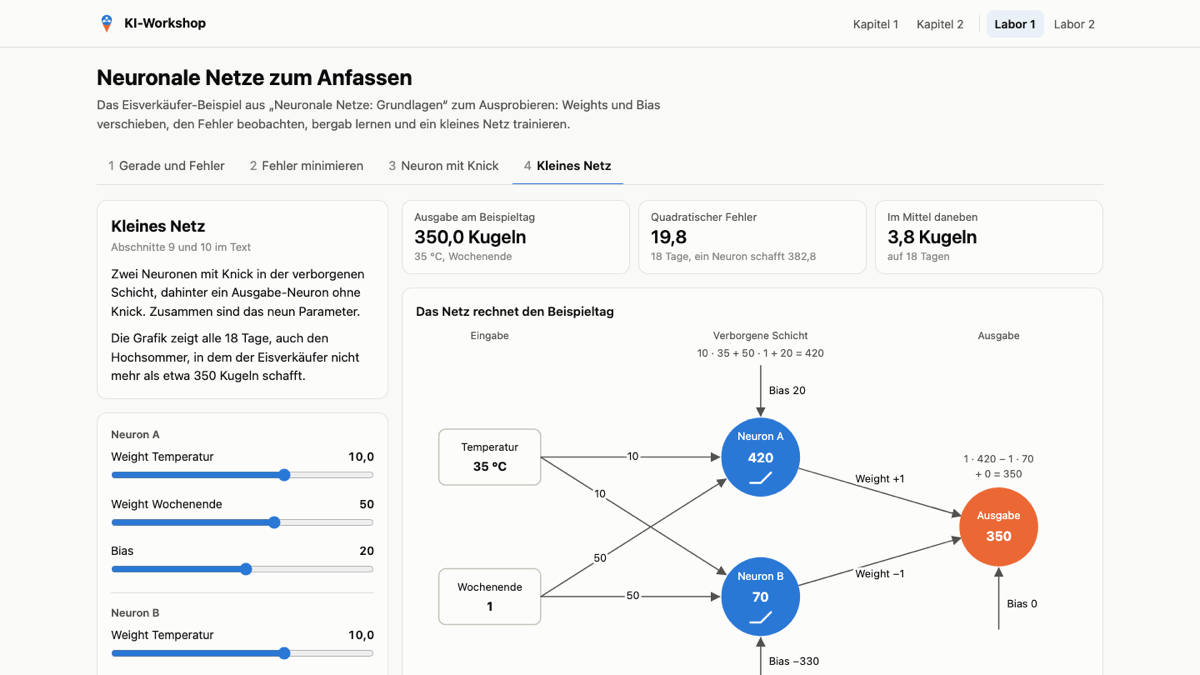
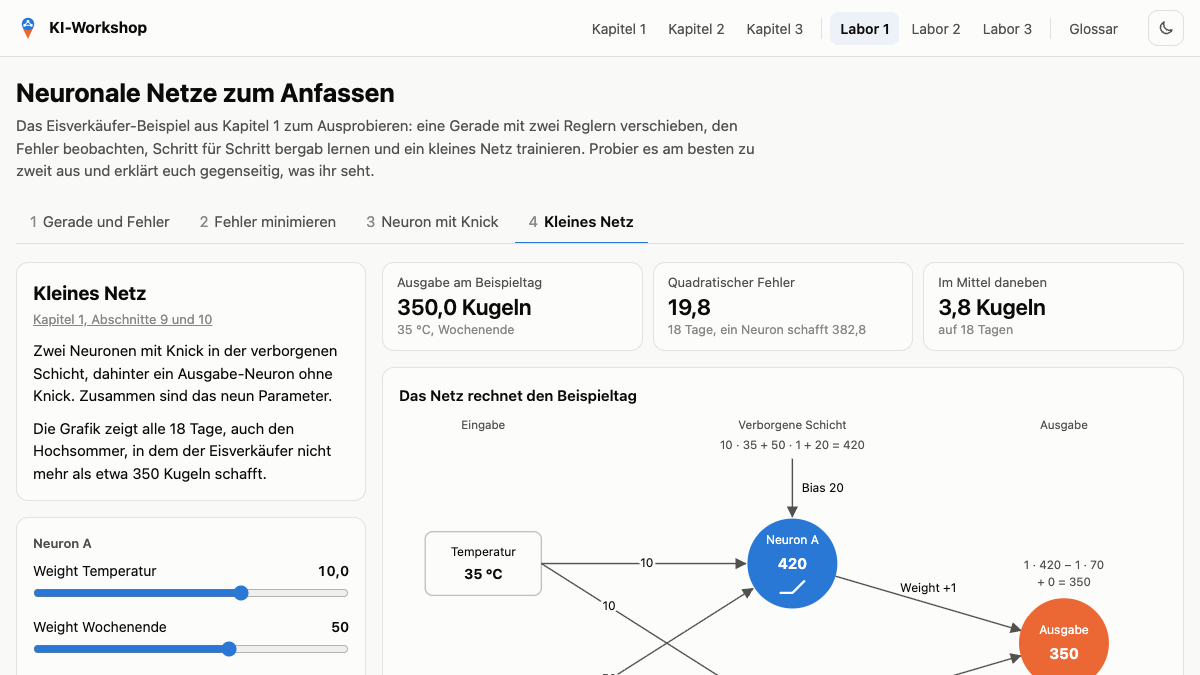
README und Screenshots auf den Stand der überarbeiteten Kapitel bringen
Neue Kapiteltitel, Teaser, Themen und Lesezeiten, Glossar und Leitfaden
für Moderierende mit eigenem Abschnitt, Grundsätze für Mitwirkende
ergänzt. Der eigene Ablaufvorschlag entfällt zugunsten des Leitfadens.
Startseite und Labore neu fotografiert, damit Navigation und Texte zur
aktuellen Website passen.

diff --git a/README.md b/README.md
@@ -4,13 +4,15 @@
 
 # KI-Workshop: Vom Eisverkäufer zum Sprachmodell
 
-**Wie neuronale Netze, große Sprachmodelle und die Suche nach Bedeutung funktionieren:<br>an einem durchgehenden Beispiel erklärt, mit Zahlen zum Nachrechnen und Laboren zum Ausprobieren.**
+**Wie lernt eine Maschine? Was steckt hinter ChatGPT und Co.? Und wie schlägt eine KI in eigenen Unterlagen nach?<br>Dieser Workshop erklärt es an einem durchgehenden Beispiel, ohne Vorkenntnisse und ohne Programmieren.**
 
 [**Zur Website**](https://kariha70.github.io/ki-workshop/) ·
 [Kapitel 1](https://kariha70.github.io/ki-workshop/kapitel-1.html) ·
 [Kapitel 2](https://kariha70.github.io/ki-workshop/kapitel-2.html) ·
 [Kapitel 3](https://kariha70.github.io/ki-workshop/kapitel-3.html) ·
-[Labore](https://kariha70.github.io/ki-workshop/#labore)
+[Labore](https://kariha70.github.io/ki-workshop/#labore) ·
+[Glossar](https://kariha70.github.io/ki-workshop/glossar.html) ·
+[Leitfaden](https://kariha70.github.io/ki-workshop/leitfaden.html)
 
 [![GitHub Pages](https://github.com/kariha70/ki-workshop/actions/workflows/pages.yml/badge.svg)](https://github.com/kariha70/ki-workshop/actions/workflows/pages.yml)
 
@@ -20,77 +22,97 @@
 
 ## Worum es geht
 
-Ein Eisverkäufer möchte wissen, wie viel Eis er morgen braucht. Aus dieser einfachen Frage entsteht Schritt für Schritt alles, was man zum Verständnis heutiger KI braucht: eine Gerade durch die Verkaufszahlen, ein Neuron, ein kleines Netz, ein Tokenizer, ein Sprachmodell und schließlich eine Suche, die nach Bedeutung statt nach Wörtern sucht.
+Ein Eisverkäufer möchte wissen, wie viel Eis er morgen braucht. Aus dieser einfachen Frage entsteht Schritt für Schritt alles, was man zum Verständnis heutiger KI braucht: eine Gerade durch die Verkaufszahlen, ein Neuron, ein kleines Netz, ein Sprachmodell und schließlich eine Suche, die nach Bedeutung statt nach Wörtern sucht.
 
-Der Workshop richtet sich an alle, die verstehen wollen, was in einem Sprachmodell wie ChatGPT, Claude oder Llama passiert. Vorwissen ist nicht nötig, Schulmathematik reicht.
+Der Workshop richtet sich an alle, die verstehen wollen, was in einem Chat-Assistenten wie ChatGPT, Claude oder Gemini passiert, und die ihn danach besser einsetzen möchten. Vorwissen ist nicht nötig, Grundrechenarten genügen.
 
 | | |
 | --- | --- |
-| 🍦 **Ein Beispiel, das trägt** | Statt vieler kleiner Beispiele gibt es eine Geschichte. Gerade, Neuron, Netz, Tokenizer und semantische Suche bauen alle auf den Daten des Eisverkäufers auf. |
+| 🍦 **Ein Beispiel, das trägt** | Statt vieler kleiner Beispiele gibt es eine Geschichte. Gerade, Neuron, Netz, Sprachmodell und Suche bauen alle auf dem Eisverkäufer auf. |
+| 💭 **Mitdenken statt nur zuhören** | Lernziele am Anfang, Fragen zum Kurz-Überlegen, ein Merksatz nach jedem Abschnitt und ein kleiner Selbsttest am Ende jedes Kapitels. |
+| 🎛 **Ausprobieren im Labor** | Regler verschieben, Texte zerlegen, nach Bedeutung suchen. Die Labore laufen direkt im Browser, ohne Installation. |
+| 🔍 **Mathematik nur für Neugierige** | Formeln und Rechenwege stehen in aufklappbaren Kästen. Wer sie überspringt, verliert nicht den Faden. |
 | 🧮 **Jede Zahl nachrechenbar** | Zu jedem Kapitel gibt es ein Python-Skript, das alle Zahlen und Grafiken erzeugt. Nichts ist geschätzt oder von Hand eingetragen. |
-| 🎛 **Labore zum Anfassen** | Regler verschieben, bergab lernen, Tokens zerlegen, Pfeile drehen, im Handbuch der Eisdiele suchen. Alles läuft direkt im Browser. |
 
 ## Die Kapitel
+
+Jedes Kapitel beantwortet eine Leitfrage. Die Kapitel bauen aufeinander auf.
 
 <table>
 <tr>
 <td width="33%" valign="top">
 <a href="https://kariha70.github.io/ki-workshop/kapitel-1.html"><img src="docs/bilder/11-zwei-knicke.png" alt="Zwei Neuronen mit Knick bilden zusammen eine Kurve"></a>
-<h3>1 · Neuronale Netze: Grundlagen</h3>
-Von der Geraden durch die Verkaufszahlen über Fehler, Gradientenabstieg und den Knick bis zum kleinen Netz, das selbst lernt.<br><br>
-<sub>Lineare Regression · Weight und Bias · Quadratischer Fehler · Gradientenabstieg · Überanpassung · Aktivierungsfunktion · Backpropagation</sub><br><br>
-⏱ etwa 25 Minuten Lesezeit
+<h3>1 · Neuronale Netze</h3>
+<b>Wie eine Maschine aus Beispielen lernt</b><br><br>
+Wie lernt eine Maschine aus Beispielen? Ein Eisverkäufer, eine Gerade und ein kleines Netz zeigen das Grundprinzip hinter jeder heutigen KI.<br><br>
+<sub>Aus Beispielen lernen · Fehler messen · Schritt für Schritt bergab · Auswendiglernen erkennen · Neuron · Neuronales Netz</sub><br><br>
+⏱ etwa 20 Minuten Lesezeit
 </td>
 <td width="33%" valign="top">
 <a href="https://kariha70.github.io/ki-workshop/kapitel-2.html"><img src="docs/bilder/kapitel-2/08-transformer.png" alt="Der Weg vom Text zum nächsten Token durch einen Transformer"></a>
-<h3>2 · Tokenizer und große Sprachmodelle</h3>
-Wie Text zu Zahlen wird, was Embeddings und Attention leisten, warum größere Modelle besser werden und wo ihre Grenzen liegen.<br><br>
-<sub>Nächstes Token · Kreuzentropie · Tokenizer · tiktoken · Embeddings · Attention · Transformer · Skalierung · Temperatur</sub><br><br>
-⏱ etwa 15 Minuten Lesezeit
+<h3>2 · Große Sprachmodelle</h3>
+<b>Wie ein Computer Texte schreibt</b><br><br>
+Was in ChatGPT und Co. steckt, warum es so flüssig formuliert und warum man trotzdem nachprüfen sollte.<br><br>
+<sub>Das nächste Wort · Tokens · Bedeutung als Zahlen · Attention · Transformer · Temperatur · Halluzinationen</sub><br><br>
+⏱ etwa 20 Minuten Lesezeit
 </td>
 <td width="33%" valign="top">
 <a href="https://kariha70.github.io/ki-workshop/kapitel-3.html"><img src="docs/bilder/kapitel-3/04-suche.png" alt="Semantische Suche und Stichwortsuche im Vergleich"></a>
-<h3>3 · Semantische Suche und RAG</h3>
-Wie Embeddings ganze Texte vergleichbar machen, wie man damit nach Bedeutung sucht und wie RAG einem Sprachmodell neues Wissen mitgibt.<br><br>
-<sub>Text-Embeddings · Kosinus · Embedding-Modell · Semantische Suche · Vektordatenbank · RAG · Hybride Suche</sub><br><br>
+<h3>3 · Suchen nach Bedeutung</h3>
+<b>Wie eine KI in Dokumenten nachschlägt</b><br><br>
+Wie beantwortet eine KI Fragen zu eigenen Unterlagen? Suchen nach Bedeutung statt nach Wörtern, und Nachschlagen statt Raten.<br><br>
+<sub>Suchen nach Bedeutung · Ähnlichkeit messen · Embedding-Modell · RAG · Grenzen · Praxistipps</sub><br><br>
 ⏱ etwa 15 Minuten Lesezeit
 </td>
 </tr>
 </table>
 
-Die Kapitel bauen aufeinander auf. Die Texte liegen als Markdown in [`docs/`](docs) und werden für die Website in HTML umgewandelt.
+Die Lesezeit gilt für den Hauptweg ohne die aufklappbaren Kästen. Kapitel 2 und 3 enden mit Faustregeln für den Alltag mit Chat-Assistenten, alle drei mit einem kleinen Selbsttest.
 
 ## Die Labore
 
-Zu jedem Kapitel gibt es eine interaktive Seite mit Aufgaben zum gemeinsamen Ausprobieren.
+Zu jedem Kapitel gibt es eine interaktive Seite mit Aufgaben zum gemeinsamen Ausprobieren, am besten zu zweit an einem Gerät.
 
 <table>
 <tr>
 <td width="33%" valign="top">
 <a href="https://kariha70.github.io/ki-workshop/app/labor-1.html"><img src="docs/bilder/labor-1.png" alt="Labor 1"></a>
-<b>Labor 1: Neuronale Netze</b><br>
-Gerade verschieben, Schritt für Schritt bergab lernen, den Knick einschalten und ein kleines Netz trainieren.
+<b>Labor 1: Wie eine Maschine lernt</b><br>
+Eine Gerade mit Reglern verschieben, Schritt für Schritt bergab gehen, den Knick einschalten und ein kleines Netz lernen lassen.
 </td>
 <td width="33%" valign="top">
 <a href="https://kariha70.github.io/ki-workshop/app/labor-2.html"><img src="docs/bilder/labor-2.png" alt="Labor 2"></a>
 <b>Labor 2: Tokens und Temperatur</b><br>
-Eigenen Text mit den echten Tokenizern von GPT-4o und GPT-4 zerlegen und die Temperatur beim Ziehen verstellen.
+Eigenen Text in Tokens zerlegen, Deutsch und Englisch vergleichen und mit der Temperatur das nächste Wort auslosen.
 </td>
 <td width="33%" valign="top">
 <a href="https://kariha70.github.io/ki-workshop/app/labor-3.html"><img src="docs/bilder/labor-3.png" alt="Labor 3"></a>
 <b>Labor 3: Suchen nach Bedeutung</b><br>
-Den Kosinus von Hand nachrechnen, Sätze vergleichen, im Handbuch der Eisdiele suchen und einen Prompt für RAG bauen.
+Ähnlichkeit von Hand ausprobieren, eigene Sätze vergleichen, im Handbuch der Eisdiele suchen und einen Prompt für einen Chat-Assistenten bauen.
 </td>
 </tr>
 </table>
 
 Labor 1 und 2 funktionieren auch ohne Internet. Labor 3 rechnet die Beispiele aus dem Text sofort. Für eigene Eingaben lädt es einmalig ein Embedding-Modell (etwa 118 MB) von Hugging Face und rechnet dann im Browser.
 
+## Zum Nachschlagen und Vorbereiten
+
+**📖 [Glossar](https://kariha70.github.io/ki-workshop/glossar.html):** Alle 51 Fachbegriffe aus dem Workshop in Alltagssprache, von *Aktivierungsfunktion* bis *Weight*, jeweils mit Verweis auf den Abschnitt, in dem sie ausführlich erklärt werden.
+
+**🧭 [Leitfaden für Moderierende](https://kariha70.github.io/ki-workshop/leitfaden.html):** Alles, um den Workshop vor Ort mit einer Gruppe ohne technisches Vorwissen zu halten:
+
+- das didaktische Konzept hinter den Kapiteln
+- einen Zeitplan für zwei Sitzungen von je etwa dreieinhalb Stunden, gedacht für 10 bis 15 Teilnehmende
+- für jedes Modul Einstieg, Fragen an die Gruppe, typische Rückfragen und Aufträge für die Labore
+- eine Checkliste für Vorbereitung und Technik, auch für einen Raum ohne Internet
+
+**🖨 Handouts:** Jedes Kapitel lässt sich über die Druckfunktion des Browsers ausdrucken oder als PDF speichern. Navigation und Schaltflächen werden dabei ausgeblendet, die aufklappbaren Kästen automatisch geöffnet.
+
 ## Schnellstart
 
 **Online lesen:** Alles liegt unter **[kariha70.github.io/ki-workshop](https://kariha70.github.io/ki-workshop/)**.
 
-**Lokal starten:** Die Website braucht keinen Build-Schritt und keinen eigenen Server, ein einfacher statischer Server genügt:
+**Lokal starten:** Die Website braucht keinen Build-Schritt, ein einfacher statischer Server genügt:
 
 ```bash
 git clone https://github.com/kariha70/ki-workshop.git
@@ -110,27 +132,6 @@ python3 -m http.server --directory docs
 > [!NOTE]
 > Beim ersten Start laden manche Skripte Daten aus dem Internet: das zweite die Vokabulare von tiktoken, das dritte das Embedding-Modell in voller Genauigkeit (etwa 470 MB). Danach liegen sie im Cache.
 
-## Den Workshop halten
-
-Die Kapitel eignen sich zum Vortragen mit Beamer, die Labore zum Mitmachen am eigenen Laptop oder Handy. Ein möglicher Ablauf für einen Nachmittag:
-
-| Block | Dauer | Inhalt |
-| --- | --- | --- |
-| Kapitel 1 | 60 min | Vom Eisverkäufer zum Netz, mit Labor 1 an den vier Stationen |
-| Pause | 15 min | |
-| Kapitel 2 | 45 min | Tokens, Transformer, Temperatur, mit Labor 2: den eigenen Namen zerlegen |
-| Kapitel 3 | 45 min | Semantische Suche und RAG, mit Labor 3: Fragen ans Handbuch stellen |
-| Abschluss | 15 min | Grenzen, Fragen, Ausblick |
-
-**Vorbereitung:**
-
-- [ ] Alle drei Skripte einmal starten, damit Vokabulare und Modell im Cache liegen.
-- [ ] Labor 3 auf dem Vortragsrechner öffnen und „Modell laden“ drücken. Danach liegt das Modell im Browser-Cache und lädt beim nächsten Mal automatisch.
-- [ ] Bei schwachem WLAN den Teilnehmenden raten, in Labor 3 bei den vorberechneten Beispielen zu bleiben.
-- [ ] Hell oder dunkel: Oben rechts lässt sich das Design umschalten, auf dem Beamer ist hell meist besser lesbar.
-
-Jedes Labor hat eine Karte „Ausprobieren“ mit Aufgaben, die sich gut für Kleingruppen eignen.
-
 ## Aufbau des Repos
 
 ```text
@@ -139,31 +140,34 @@ ki-workshop/
 │   ├── 01-Neuronale-Netze-Grundlagen.md
 │   ├── 02-Tokenizer-und-Sprachmodelle.md
 │   ├── 03-Semantische-Suche-und-RAG.md
-│   ├── index.html, kapitel-*.html   erzeugt aus den Markdown-Dateien
+│   ├── glossar.md                 Fachbegriffe in Alltagssprache
+│   ├── leitfaden.md               Leitfaden für Moderierende
+│   ├── *.html                     erzeugt aus den Markdown-Dateien
 │   ├── app/                       die Labore und ihre vorberechneten Daten
 │   │   └── vendor/                js-tiktoken für Labor 2 und 3
 │   ├── assets/                    Stylesheets, Skripte und Logo der Website
 │   ├── beispiele/                 die Python-Skripte zu den Kapiteln
 │   └── bilder/                    alle Grafiken, erzeugt von den Skripten
 ├── werkzeuge/
-│   ├── seite_bauen.py             baut Startseite und Kapitelseiten
+│   ├── seite_bauen.py             baut Startseite, Kapitel, Glossar und Leitfaden
 │   └── tiktoken/                  baut docs/app/vendor/tiktoken.js
 └── .github/workflows/pages.yml    veröffentlicht docs/ bei jedem Push auf main
 ```
 
 ## Inhalte ändern
 
-1. **Text bearbeiten:** Die Kapitel in `docs/*.md` ändern.
+1. **Text bearbeiten:** Kapitel, Glossar oder Leitfaden in `docs/*.md` ändern.
 2. **Zahlen und Grafiken neu erzeugen:** Das passende Skript in `docs/beispiele/` ohne Argumente starten. Es schreibt die Grafiken nach `docs/bilder/` und die Labordaten nach `docs/app/`.
-3. **Seiten bauen:** `uv run werkzeuge/seite_bauen.py` erzeugt `docs/index.html` und `docs/kapitel-*.html` neu. Die erzeugten Seiten werden mit eingecheckt.
+3. **Seiten bauen:** `uv run werkzeuge/seite_bauen.py` erzeugt alle HTML-Seiten in `docs/` neu. Die erzeugten Seiten werden mit eingecheckt.
 4. **Veröffentlichen:** Ein Push auf `main` startet den Workflow, der `docs/` auf GitHub Pages stellt.
 
 Ein paar Grundsätze, die sich durch alle Kapitel ziehen:
 
-- Alle Daten im Beispiel sind erfunden, alle Zahlen im Text kommen aus den Skripten.
-- Ausgedachte Werte, etwa in schematischen Grafiken, sind im Text als ausgedacht gekennzeichnet.
-- Jedes Kapitel endet mit „Das Wichtigste in Kürze“, „Selbst ausprobieren“ und Quellen.
-- Fachbegriffe werden beim ersten Auftreten erklärt und danach einheitlich verwendet, etwa *Weight* und *Bias*.
+- **Erst erleben, dann benennen:** Jeder größere Gedanke beginnt mit einer Frage an die Leserin oder den Leser („Kurz überlegen“). Der Fachbegriff kommt danach.
+- **Der Hauptweg kommt ohne Formeln aus.** Rechnungen, Programmcode und Hintergründe stehen in Kästen `<details class="vertiefung">` mit dem Titel „Für Neugierige“.
+- **Jeder Abschnitt endet mit einem Merksatz**, jedes Kapitel mit „Das Wichtigste in Kürze“, einem Selbsttest „Teste dich“ und Quellen.
+- **Alle Daten im Beispiel sind erfunden**, alle Zahlen im Text kommen aus den Skripten. Ausgedachte Werte, etwa in schematischen Grafiken, sind als ausgedacht gekennzeichnet.
+- **Neue Fachbegriffe** gehören auch ins Glossar.
 
 Das Bündel für js-tiktoken wird nur neu gebaut, wenn sich die Version ändern soll:
 
@@ -189,7 +193,7 @@ Die Unterlagen dürfen gern für eigene Workshops, im Unterricht oder in der Com
 
 | Was | Lizenz |
 | --- | --- |
-| **Inhalte:** die Kapiteltexte in `docs/*.md`, die daraus erzeugten Seiten und alle Grafiken in `docs/bilder/` | [CC BY 4.0](https://creativecommons.org/licenses/by/4.0/deed.de), siehe [`LICENSE-INHALTE`](LICENSE-INHALTE) |
+| **Inhalte:** Kapitel, Glossar und Leitfaden in `docs/*.md`, die daraus erzeugten Seiten und alle Grafiken in `docs/bilder/` | [CC BY 4.0](https://creativecommons.org/licenses/by/4.0/deed.de), siehe [`LICENSE-INHALTE`](LICENSE-INHALTE) |
 | **Code:** die Skripte, die Labore, Stylesheets und Werkzeuge | [MIT](LICENSE) |
 | **Fremde Software** in `docs/app/vendor/` | eigene Lizenz, siehe [`LIZENZ.txt`](docs/app/vendor/LIZENZ.txt) |
 
